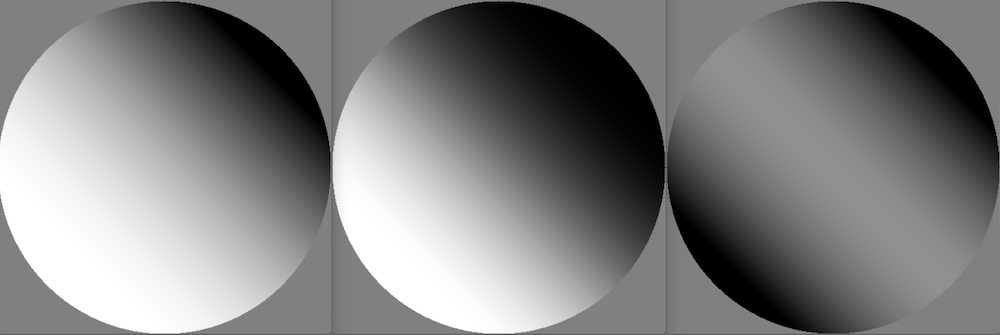
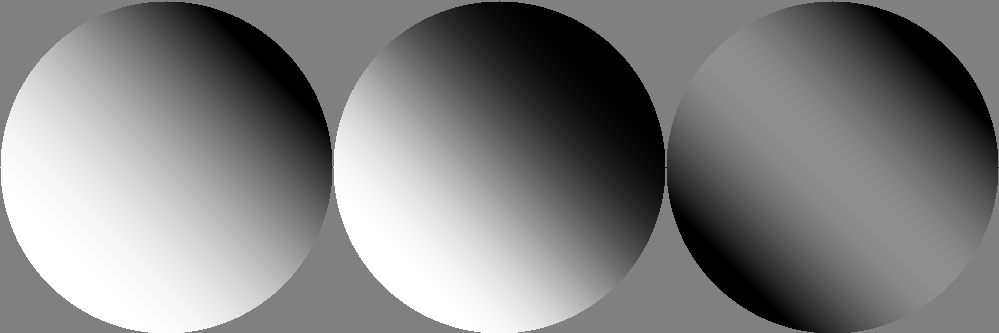
WIP add Texture::displayAndFile3() and Texture::windowPlacementTool().
Update doc images.

diff --git a/docs/index.html b/docs/index.html
@@ -90,16 +90,17 @@
         mid-tones, leading to the “doughnut shaped” difference image.</p>
       <pre>black = Uniform(Color(0, 0, 0))
 white = Uniform(Color(1, 1, 1))
-    
-Spot(Vec2(), 0.1, white, 1.0, black)</pre>
+<br>Texture::diff(Spot (Vec2(), 0.1, white, 1.0, black),
+              Spot2(Vec2(), 0.1, white, 1.0, black))</pre>
       <img src="images/20200518_Spot_diff.png" alt="Spot Texture::diff()" title="Spot Texture::diff()"
-        height="335" width="1000">
+        height="333" width="999">
       <p>For the <em>Gradation</em> comparison below, I think the new version
         (second image) is better. The mid-point of the gray scale transition
         seems to fall closer to the geometric center.</p>
-      <pre>Gradation(Vec2(0.6, 0.6), black, Vec2(-0.6, -0.6), white)</pre>
+      <pre>Texture::diff(Gradation (Vec2(0.6, 0.6), black, Vec2(-0.6, -0.6), white),
+              Gradation2(Vec2(0.6, 0.6), black, Vec2(-0.6, -0.6), white))</pre>
       <img src="images/20200518_Gradation_diff.png" alt="Gradation Texture::diff()"
-        title="Gradation Texture::diff()" height="335" width="1000">
+        title="Gradation Texture::diff()" height="333" width="999">
       <p><strong>So:</strong> <em>Grating</em> and <em>Gradation</em> seem
         better with “de-gamma-ed” waveform. I will keep this new version. I will
         plan to make the same change to the various Perlin noise based

diff --git a/Texture.cpp b/Texture.cpp
@@ -15,21 +15,49 @@
 #include <opencv2/highgui/highgui.hpp>
 #pragma clang diagnostic pop
 
-// Rasterize this texture into size² OpenCV image, display in pop-up window.
-void Texture::displayInWindow(int size, bool wait) const
+//~~~~~~~~~~~~~~~~~~~~~~~~~~~~~~~~~~~~~~~~~~~~~~~~~~~~~~~~~~~~~~~~~~~~~~~~~~~~~~
+// TODO EXPERIMENTAL
+
+void windowPlacementTool(cv::Mat& mat)
 {
-    rasterizeToImageCache(size, true);
     // Display in pop-up window.
     static int window_counter = 0;
     static int window_position = 0;
     std::string window_name = "TexSyn" + std::to_string(window_counter++);
     cv::namedWindow(window_name);       // Create a window for display.
     int tm = 23;  // TODO approximate top margin height
-    cv::moveWindow(window_name, window_position, window_position + size + tm);
+    
+//    cv::moveWindow(window_name, window_position, window_position + size + tm);
+    int h = mat.rows;
+    cv::moveWindow(window_name, window_position, window_position + h + tm);
+    
     window_position += tm;
-    cv::imshow(window_name, *raster_);  // Show our image inside it.
+//    cv::imshow(window_name, *raster_);  // Show our image inside it.
+    cv::imshow(window_name, mat);  // Show our image inside it.
+
+}
+
+
+// Rasterize this texture into size² OpenCV image, display in pop-up window.
+void Texture::displayInWindow(int size, bool wait) const
+{
+    rasterizeToImageCache(size, true);
+    
+//    // Display in pop-up window.
+//    static int window_counter = 0;
+//    static int window_position = 0;
+//    std::string window_name = "TexSyn" + std::to_string(window_counter++);
+//    cv::namedWindow(window_name);       // Create a window for display.
+//    int tm = 23;  // TODO approximate top margin height
+//    cv::moveWindow(window_name, window_position, window_position + size + tm);
+//    window_position += tm;
+//    cv::imshow(window_name, *raster_);  // Show our image inside it.
+    
+    windowPlacementTool(*raster_);
+    
     if (wait) waitKey();  // Wait for a keystroke in the window.
 }
+//~~~~~~~~~~~~~~~~~~~~~~~~~~~~~~~~~~~~~~~~~~~~~~~~~~~~~~~~~~~~~~~~~~~~~~~~~~~~~~
 
 // Rasterize this texture into a size² OpenCV image. Arg "disk" true means
 // draw a round image, otherwise a square. Run parallel threads for speed.
@@ -248,3 +276,46 @@ std::shared_ptr<cv::Mat> Texture::emptyCvMat() const
 {
     return std::make_shared<cv::Mat>();
 }
+
+//~~~~~~~~~~~~~~~~~~~~~~~~~~~~~~~~~~~~~~~~~~~~~~~~~~~~~~~~~~~~~~~~~~~~~~~~~~~~~~
+// TODO EXPERIMENTAL
+// Special utility for Texture::diff() maybe refactor to be more general.
+void Texture::displayAndFile3(const Texture& t1,
+                              const Texture& t2,
+                              const Texture& t3,
+                              std::string pathname,
+                              int size)
+{
+    t1.rasterizeToImageCache(size, true);
+    t2.rasterizeToImageCache(size, true);
+    t3.rasterizeToImageCache(size, true);
+        
+    // Make OpenCV Mat instance of type CV_8UC3 (3 by unsigned 8 bit primaries).
+    cv::Mat mat(size, size * 3, CV_8UC3);
+    
+//    cv::namedWindow("foo");       // Create a window for display.
+//    cv::imshow("foo", mat);  // Show our image inside it.
+
+    
+    // Define a new image, a "pointer" to portion of "mat".
+    cv::Mat render_target(mat, cv::Rect(0, 0, size, size));
+    // Convert 3xfloat rendered raster to 3x8bit window inside opencv_image
+    (t1.raster_)->convertTo(render_target, CV_8UC3, 255);
+    
+//    cv::Mat render_target2(mat, cv::Rect(0, size - 1, size, size));
+//    cv::Mat render_target2(mat, cv::Rect(size - 1, 0, size, size));
+    cv::Mat render_target2(mat, cv::Rect(size, 0, size, size));
+    (t2.raster_)->convertTo(render_target2, CV_8UC3, 255);
+
+//    cv::Mat render_target3(mat, cv::Rect(0, size * 2 - 1, size, size));
+//    cv::Mat render_target3(mat, cv::Rect(size * 2 - 1, 0, size, size));
+    cv::Mat render_target3(mat, cv::Rect(size * 2, 0, size, size));
+    (t3.raster_)->convertTo(render_target3, CV_8UC3, 255);
+
+    std::string file_type = ".png";
+    cv::imwrite(pathname + file_type, mat);
+
+    windowPlacementTool(mat);
+
+}
+//~~~~~~~~~~~~~~~~~~~~~~~~~~~~~~~~~~~~~~~~~~~~~~~~~~~~~~~~~~~~~~~~~~~~~~~~~~~~~~

diff --git a/Texture.h b/Texture.h
@@ -70,8 +70,14 @@ public:
     // pixel raster, and the corresponding Vec2 in Texture space. [DEPRECATED]
     static void rasterizeSquare(int size, PixelFunction pixel_function);
     static void rasterizeDisk(int size, PixelFunction pixel_function);
+    //~~~~~~~~~~~~~~~~~~~~~~~~~~~~~~~~~~~~~~~~~~~~~~~~~~~~~~~~~~~~~~~~~~~~~~~~~~
+//    // Compare two textures, print stats, display inputs and AbsDiff of them
+//    static void diff(const Texture& t0, const Texture& t1);
     // Compare two textures, print stats, display inputs and AbsDiff of them
-    static void diff(const Texture& t0, const Texture& t1);
+    static void diff(const Texture& t0,
+                     const Texture& t1,
+                     std::string pathname = "");
+    //~~~~~~~~~~~~~~~~~~~~~~~~~~~~~~~~~~~~~~~~~~~~~~~~~~~~~~~~~~~~~~~~~~~~~~~~~~
     // Combines display on screen and writing file, but primary benefit is that
     // this allows writing an arbitrarily nested expression of TexSyn
     // constructors, whose lifetime extends across both operations.
@@ -84,6 +90,17 @@ public:
     // is called ONLY from constructors providing backward compatibility. The
     // tiny Uniform texture object is allowed to "memory leak" for ease of use.
     static Texture& disposableUniform(Color color);
+    //~~~~~~~~~~~~~~~~~~~~~~~~~~~~~~~~~~~~~~~~~~~~~~~~~~~~~~~~~~~~~~~~~~~~~~~~~~
+    // TODO EXPERIMENTAL
+    
+    // Special utility for Texture::diff() maybe refactor to be more general.
+    
+    static void displayAndFile3(const Texture& t1,
+                                const Texture& t2,
+                                const Texture& t3,
+                                std::string pathname = "",
+                                int size = 333);
+    //~~~~~~~~~~~~~~~~~~~~~~~~~~~~~~~~~~~~~~~~~~~~~~~~~~~~~~~~~~~~~~~~~~~~~~~~~~
 private:
     // TODO maybe we need a OOBB Bounds2d class?
     // TODO maybe should be stored in external std::map keyed on Texture pointer

diff --git a/Operators.cpp b/Operators.cpp
@@ -13,7 +13,10 @@
 #include "Operators.h"
 #include <thread>
 
-void Texture::diff(const Texture& t0, const Texture& t1)
+//~~~~~~~~~~~~~~~~~~~~~~~~~~~~~~~~~~~~~~~~~~~~~~~~~~~~~~~~~~~~~~~~~~~~~~~~~~~~~~
+//void Texture::diff(const Texture& t0, const Texture& t1)
+void Texture::diff(const Texture& t0, const Texture& t1, std::string pathname)
+//~~~~~~~~~~~~~~~~~~~~~~~~~~~~~~~~~~~~~~~~~~~~~~~~~~~~~~~~~~~~~~~~~~~~~~~~~~~~~~
 {
     AbsDiff abs_diff(t0, t1);
     int pixel_count = 0;
@@ -29,7 +32,20 @@ void Texture::diff(const Texture& t0, const Texture& t1)
     debugPrint(pixel_count);
     debugPrint(total_color);
     debugPrint(total_color / pixel_count);
-    Texture::displayInWindow({ &t0, &t1, &abs_diff }, 451, false);
+    //~~~~~~~~~~~~~~~~~~~~~~~~~~~~~~~~~~~~~~~~~~~~~~~~~~~~~~~~~~~~~~~~~~~~~~~~~~
+//    Texture::displayInWindow({ &t0, &t1, &abs_diff }, 451, false);
+    
+    // TODO EXPERIMENTAL
+
+//    t0.rasterizeToImageCache(333, true);
+//    t1.rasterizeToImageCache(333, true);
+//    abs_diff.rasterizeToImageCache(333, true);
+    
+//    cv::Mat foo;
+    
+    Texture::displayAndFile3(t0, t1, abs_diff, pathname);
+    
+    //~~~~~~~~~~~~~~~~~~~~~~~~~~~~~~~~~~~~~~~~~~~~~~~~~~~~~~~~~~~~~~~~~~~~~~~~~~
 }
 
 // Each Blur::getColor() uses an NxN jiggled grid of subsamples, where N is:

diff --git a/main.cpp b/main.cpp
@@ -1910,9 +1910,11 @@ int main(int argc, const char * argv[])
     Uniform white(Color(1, 1, 1));
     
     Texture::diff(Spot (Vec2(), 0.1, white, 1.0, black),
-                  Spot2(Vec2(), 0.1, white, 1.0, black));
+                  Spot2(Vec2(), 0.1, white, 1.0, black)
+                  , path + "Spot_diff");
     Texture::diff(Gradation (Vec2(0.6, 0.6), black, Vec2(-0.6, -0.6), white),
-                  Gradation2(Vec2(0.6, 0.6), black, Vec2(-0.6, -0.6), white));
+                  Gradation2(Vec2(0.6, 0.6), black, Vec2(-0.6, -0.6), white)
+                  , path + "Gradation_diff");
     
     // 11am: definitely looks "better" in that the gray transition seems better
     //       aligned by the geometry of the transition, middle gray near center
